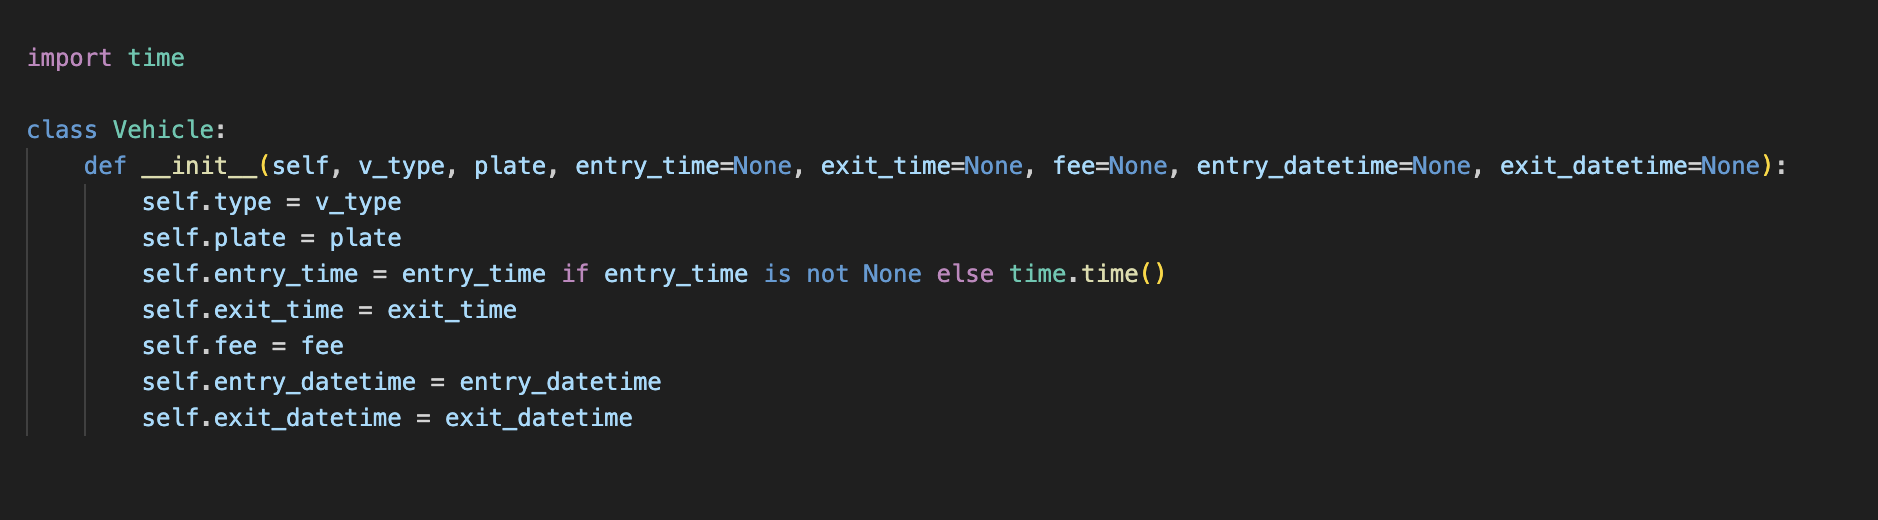
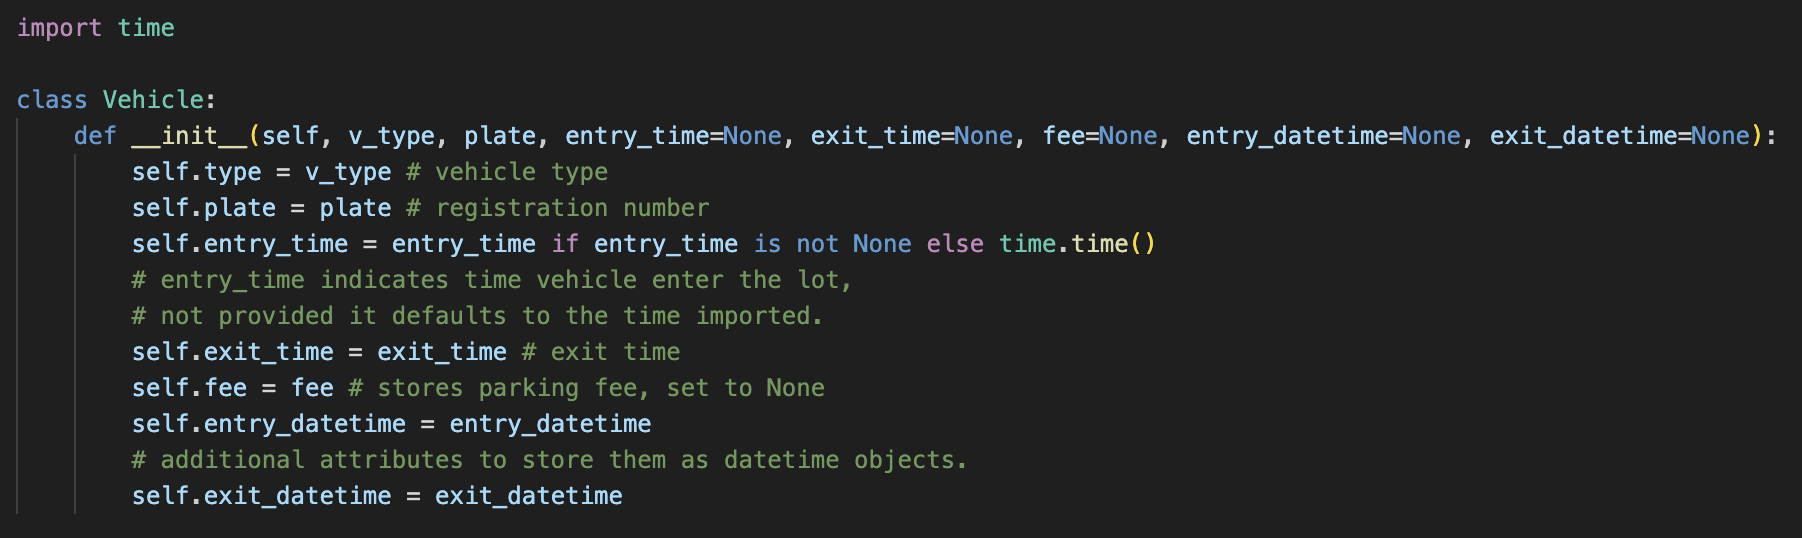
notes for slide deck

Changed region(s): [[0.0311, 0.3077, 0.9634, 0.9538], [0.0, 0.1538, 0.9945, 0.2769], [0.0, 0.0308, 0.0932, 0.1231]]

diff --git a/parkinglot/parkinglot.py b/parkinglot/parkinglot.py
@@ -4,50 +4,69 @@ from vehicle import Vehicle
 
 class ParkingLot:
     def __init__(self, total_spaces): 
-        self.spaces = [None] * total_spaces
-        self.avail_spaces = total_spaces
+        # total_spaces shows # space in the lot.
+        # spaces is list that represent parking spaces.
+        # spaces are set to none to indicate they are not occupied.
+        self.spaces = [None] * total_spaces 
+        #available_spaces represent available space is in the lot.
+        self.available_spaces = total_spaces
+        # occupied_spaces represent number spaces being occupied.
         self.occupied_spaces = 0
 
     def park_vehicle(self, v_type, plate):
-        if self.avail_spaces == 0:
+        # no parking spaces available, print the error code
+        if self.available_spaces == 0:
             print("Error: No Available Spaces")
             return
 
+        # below code proceeds to check for space as long as code pass above
         for i in range(len(self.spaces)):
           if self.spaces[i] is None:
+                # import time module set the time for time & datetime
                 current_time = time.time()
                 current_datetime = time.strftime("%Y-%m-%d %H:%M:%S", time.localtime())
+                # creates the vehicle as per the arguments in the ()
                 vehicle = Vehicle(v_type, plate, entry_time=current_time, entry_datetime=current_datetime)
                 self.spaces[i] = vehicle
-                self.avail_spaces -= 1
+                # depending on vehicle entering & exiting,
+                # below 2 spaces are updated accordingly.
+                self.available_spaces -= 1
                 print("Vehicle parked successfully.")
                 self.occupied_spaces += 1
                 return vehicle
 
+        # if parking is full, below error will be printed.
         print("Error: Parking lot is full")
         return None
 
+    # function that take parameter 'plate'/registration plate.
     def exit_lot(self, plate):
         for i in range(len(self.spaces)):
+            # inside this nested loops, if the plate matches, 
             if self.spaces[i] and self.spaces[i].plate == plate:
+                # retrieve the time
                 current_time = time.time()
+                # change the format to YYY/MM/DD HH:MM:SS
                 current_datetime = time.strftime("%Y-%m-%d %H:%M:%S", time.localtime())
                 vehicle = self.spaces[i]
                 vehicle.exit_time = current_time
                 vehicle.exit_datetime = current_datetime
+                # then calculate the fee and store it as 'fee'
                 fee = self.calculate_fee(vehicle)
                 self.spaces[i] = None
-                self.avail_spaces += 1
+                self.available_spaces += 1
                 self.occupied_spaces -= 1
                 return vehicle, fee
 
-        return None, None  # Vehicle not found
+        # # Vehicle not found and return none for the vehicle object & fee
+        return None, None  
 
-
+    # display status of the parkinglot
     def display_lot(self):
-        print("Available spaces:", self.avail_spaces)
+        print("Available spaces:", self.available_spaces)
         print("Parking Lot Status:")
         for i in range(len(self.spaces)):
+            # print the following if space is occupied
             if self.spaces[i]:
                 print(f"Space {i+1}: {self.spaces[i].plate} ({self.get_vehicle_type(self.spaces[i].type)})")
             else:
@@ -56,17 +75,22 @@ class ParkingLot:
 
     # fee calculations
     def calculate_fee(self, vehicle):
+        # this method check if the time is noe, means is not recorded
         if vehicle.entry_time is None or vehicle.exit_time is None:
+            # it will then indicate that fee can't be calc.
             return None
 
+        # if enter & exit time are recorded, substraction happens.
         duration = vehicle.exit_time - vehicle.entry_time
-        # Assuming the fee calculation is $5 per hour
-        fee = duration * 5 / 3600  # Convert seconds to hours
+        # Assuming the fee calculation is $4 per hour
+        fee = duration * 4 / 3600  # Convert seconds to hours
         vehicle.fee = fee
+        # calculated fee is processed.
         return fee
         
 
-    @staticmethod
+    # belongs to the class rather than instance of class.
+    @staticmethod 
     def get_vehicle_type(v_type):
         if v_type == 1:
             return "Car"

diff --git a/parkinglot/main.py b/parkinglot/main.py
@@ -8,11 +8,13 @@ from parkinglot import ParkingLot
 
 
 def main():
+    # user input number of parking spaces
     total_spaces = int(input("Enter the total number of parking spaces: "))
     parking_lot = ParkingLot(total_spaces)
+    # List to store the report entries
+    report = []  
 
-    report = []  # List to store the report entries
-
+    # while loop to keep repeating until quit is selected.
     while True:
         print("\nPlease select an option:")
         print("1. Park a vehicle")
@@ -32,39 +34,44 @@ def main():
             plate = input("Enter vehicle registration number: ")
             vehicle = parking_lot.park_vehicle(v_type, plate)
             if vehicle is not None:
-                # #####
+                # if vehicle is parked, report on information of v_plate, entry & exit time & fee will 
+                # be generated.
                 report.append(f"Parked: {vehicle.plate} ({parking_lot.get_vehicle_type(vehicle.type)}), "
                               f"Entry: {vehicle.entry_datetime}, Fee: ${vehicle.fee}")
                 
 
         elif option == "2":
             plate = input("Enter vehicle registration number: ")
+            # 2 arguments as vehicle & fee
             vehicle, fee = parking_lot.exit_lot(plate)
             if vehicle is not None:
                 if fee is not None:
+                     # if vehicle & fee returns correct value,
                     print(f"Vehicle exited successfully. Fee: ${fee:.2f}")
+                    # generate repprt on exiting infos
                     report.append(f"Exited: {vehicle.plate} ({parking_lot.get_vehicle_type(vehicle.type)}), "
                                   f"Exit: {vehicle.exit_datetime}, Fee: ${fee:.2f}")
                 else:
                     print("Error: Fee calculation failed.")
 
+        # display status of the parking lot whether is full or empty
         elif option == "3":
             parking_lot.display_lot()
 
-
+        # option 4 is quitting the terminal app
         elif option == "4":
             # Generate the report and write it to a file
+            # strftime format the date to YYY-MM-DD_HH:MM:SS
             timestamp = time.strftime("%Y-%m-%d_%H-%M-%S", time.localtime())
             filename = f"parking_report_{timestamp}.txt"
 
+            # file open in written mode, 'with' will ensure that file is properly closed
             with open(filename, "w") as file:
+                # loop iterates the report, entry report is written with a newline
                 for entry in report:
                     file.write(entry + "\n")
-
-
-            # with open(filename, "w") as file:
-            #     file.write("\n".join(report))
-
+            
+            # success message printed indicated report generated & saved.
             print(f"Report generated and saved as {filename}.")
             break
 
@@ -72,6 +79,10 @@ def main():
             print("Invalid option. Please try again.")
 
 
+# using the same code as original repo, 
+# from reading, check current script run directly or imported
+# Way to ensure certain code runs only when script is run direxctly,
+# not when is imported as module.
 if __name__ == '__main__':
     main()
 

diff --git a/parkinglot/vehicle.py b/parkinglot/vehicle.py
@@ -3,12 +3,15 @@ import time
 
 class Vehicle:
     def __init__(self, v_type, plate, entry_time=None, exit_time=None, fee=None, entry_datetime=None, exit_datetime=None):
-        self.type = v_type
-        self.plate = plate
-        self.entry_time = entry_time if entry_time is not None else time.time()
-        self.exit_time = exit_time
-        self.fee = fee
-        self.entry_datetime = entry_datetime
+        self.type = v_type # vehicle type
+        self.plate = plate # registration number
+        self.entry_time = entry_time if entry_time is not None else time.time() 
+        # entry_time indicates time vehicle enter the lot, 
+        # not provided it defaults to the time imported.
+        self.exit_time = exit_time # exit time
+        self.fee = fee # stores parking fee, set to None
+        self.entry_datetime = entry_datetime 
+        # additional attributes to store them as datetime objects.
         self.exit_datetime = exit_datetime
 
 
